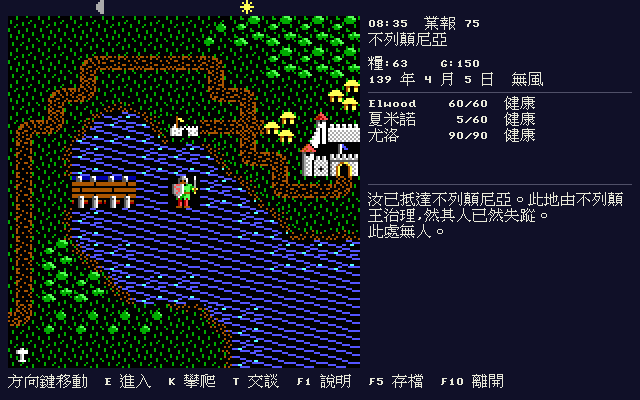
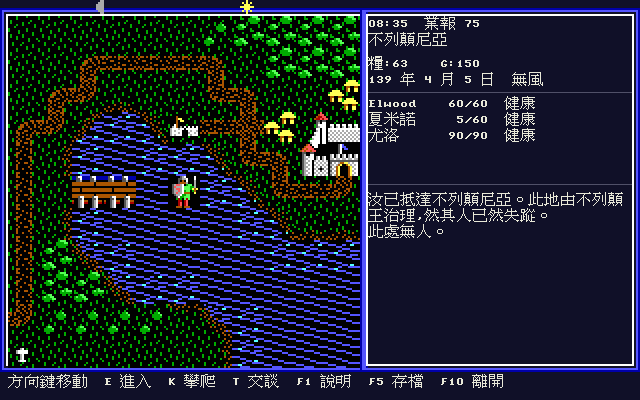
讓現代版面固定顯示古典框線

Changed region(s): [[0.0, 0.0, 1.0, 0.93]]

diff --git a/internal/render/chrome_test.go b/internal/render/chrome_test.go
@@ -5,17 +5,19 @@ import (
 	"testing"
 )
 
-func TestClassicChromeLeavesFooterForHints(t *testing.T) {
-	img := image.NewNRGBA(image.Rect(0, 0, CanvasWidth, CanvasHeight))
-	fill(img, ColorBackground)
+func TestBothUIModesLeaveFooterForHints(t *testing.T) {
+	for _, mode := range []UIMode{UIModern, UIOriginal} {
+		img := image.NewNRGBA(image.Rect(0, 0, CanvasWidth, CanvasHeight))
+		fill(img, ColorBackground)
 
-	s := &Scene{UI: UIOriginal}
-	s.drawClassicChrome(img)
+		s := &Scene{UI: mode}
+		s.drawClassicChrome(img)
 
-	if got := img.At(PanelX, HintY); got != ColorBackground {
-		t.Fatalf("古典框仍畫進命令提示 footer: y=%d, got=%v", HintY, got)
-	}
-	if got := img.At(PanelX, HintY-classicFooterGap-1); got == ColorBackground {
-		t.Fatalf("古典框未在 footer 前收邊: y=%d", HintY-classicFooterGap-1)
+		if got := img.At(PanelX, HintY); got != ColorBackground {
+			t.Errorf("%s 框線仍畫進命令提示 footer: y=%d, got=%v", UIModeNames[mode], HintY, got)
+		}
+		if got := img.At(PanelX, HintY-classicFooterGap-1); got == ColorBackground {
+			t.Errorf("%s 框線未在 footer 前收邊: y=%d", UIModeNames[mode], HintY-classicFooterGap-1)
+		}
 	}
 }

diff --git a/internal/render/sky_test.go b/internal/render/sky_test.go
@@ -69,17 +69,13 @@ func TestBothUIModesKeepTheSunMoonIndicator(t *testing.T) {
 	}
 }
 
-func TestOriginalModeDrawsClassicChrome(t *testing.T) {
-	modern := testScene()
-	modern.UI = UIModern
-	classic := testScene()
-	classic.UI = UIOriginal
-	modernPixel := modern.Render().NRGBAAt(0, 8)
-	classicPixel := classic.Render().NRGBAAt(0, 8)
-	if modernPixel == classicPixel {
-		t.Fatalf("原版框線沒有與現代版分開:兩者 (0,8) 都是 %v", classicPixel)
-	}
-	if classicPixel != u5data.EGAPalette[1] {
-		t.Errorf("原版框線外層是 %v,預期 EGA 深藍=%v", classicPixel, u5data.EGAPalette[1])
+func TestBothUIModesDrawClassicChrome(t *testing.T) {
+	for _, mode := range []UIMode{UIModern, UIOriginal} {
+		s := testScene()
+		s.UI = mode
+		pixel := s.Render().NRGBAAt(0, 8)
+		if pixel != u5data.EGAPalette[1] {
+			t.Errorf("%s 框線外層是 %v,預期 EGA 深藍=%v", UIModeNames[mode], pixel, u5data.EGAPalette[1])
+		}
 	}
 }

diff --git a/internal/render/chrome.go b/internal/render/chrome.go
@@ -13,15 +13,11 @@ const (
 	classicChromeHeight = HintY - classicChromeTop - classicFooterGap
 )
 
-// drawClassicChrome 畫 UIOriginal 的原版藍白框線。
+// drawClassicChrome 畫兩種版面共用的原版藍白框線。
 //
 // 這裡只畫外框，不重排右欄內容：中文狀態與 remake 擴充訊息仍由既有
-// adaptive layout 決定，避免為了像素框線退回原版狹窄的英文欄位。
+// adaptive layout 決定；F2 只切換欄位排版，不切換框線。
 func (s *Scene) drawClassicChrome(dst *image.NRGBA) {
-	if s.UI != UIOriginal {
-		return
-	}
-
 	// MapOriginY=16 正好把頂端 16 px 留給日月帶，框線不會蓋住第一列地形。
 	// 古典框在命令提示前收邊，下面的 footer 留給繁中提示列，避免底框穿過字形。
 	drawClassicFrame(dst, 0, classicChromeTop, PanelX, classicChromeHeight)

diff --git a/internal/render/sky.go b/internal/render/sky.go
@@ -59,7 +59,7 @@ func skyBandSlot(pos int, wrapNegative bool) int {
 }
 
 // drawTimeBand 畫大地圖／場景的日月指示；地牢與戰鬥依原版位置碼不畫。
-// 現代版與 UIOriginal 都保留，差別只在 UIOriginal 另外有藍白框線。
+// 現代版與 UIOriginal 都保留日月圖；兩種版面共用藍白框線。
 func (s *Scene) drawTimeBand(dst *image.NRGBA) {
 	if s.State == nil || s.RuneCharset == nil || !s.State.SceneOrOverworld() {
 		return

diff --git a/README.md b/README.md
@@ -52,9 +52,9 @@
 
 ![古典版 GUI（命令提示 footer 不被框線遮住）](docs/screenshots/26-ui-original.png)
 
-古典版面以原版藍白框線與欄位順序為基礎；按 `F2` 可與現代版面即時切換。
-框線在底部命令提示 footer 前收邊，提示文字保留獨立空間；兩種版面都保留日／月指示，
-以及 remake 擴充的繁中訊息與狀態內容。
+兩種版面都固定保留原版藍白框線與底部命令提示 footer 空間；按 `F2` 只切換右欄排版。
+現代版面仍保留分組留白，原版版面則維持原版欄位順序；兩者都保留日／月指示，以及
+remake 擴充的繁中訊息與狀態內容。
 
 | | |
 |---|---|
@@ -80,8 +80,8 @@
 | **衛兵索取貢金** —— 全遊戲只有十三個攔路衛兵(對話號碼 0xFF),分布在五座城與黑棘的宮殿。付不出來就當場逮捕 | **豎琴後面的密室** —— 在王的城堡二樓坐下彈完十三個音,石牆開了。裡面躺著檀香木盒,真結局的前提 |
 | ![聖壇石室](docs/screenshots/14-shrine-room.png) | ![離開確認框](docs/screenshots/22-quit.png) |
 | **聖壇的石室** —— 四間 11×11 的房間出自 `MISCMAPS.DAT`,踏上正確的位置才讀得到寶典那一頁 | **離開確認框** —— `F10` 才會問這一句,`ESC` 永遠是取消。答 Y 之前先存檔,所以按錯鍵不會丟進度 |
-| ![現代版面](docs/screenshots/25-ui-modern.png) | ![原版版面](docs/screenshots/26-ui-original.png) |
-| **現代版面(預設)** —— 分組留白 + 分隔線,保留日／月圖指示與 remake 擴充訊息 | **原版版面** —— 原版藍白框線 + 欄位組成與順序照原版右欄,底部命令提示不再被框線遮住。`F2` 隨時切換 |
+| ![現代版面（固定古典框線）](docs/screenshots/25-ui-modern.png) | ![原版版面](docs/screenshots/26-ui-original.png) |
+| **現代版面(預設)** —— 藍白框線 + 分組留白 + 分隔線,保留日／月圖指示與 remake 擴充訊息 | **原版版面** —— 藍白框線 + 欄位組成與順序照原版右欄,底部命令提示不被框線遮住。`F2` 只切換排版 |
 | ![主選單](docs/screenshots/24-menu.png) | ![指令說明](docs/screenshots/23-help.png) |
 | **主選單** —— 開機第一個畫面,原版的六個項目。第二項「建立新角色」是吉普賽人的七題八德淘汰賽 | **`F1` 指令說明** —— 原版把 A–Z 二十六個字母全用光了,1988 年靠的是紙本手冊。現在手邊沒那本書,所以「開門是哪個鍵」得在遊戲裡答得出來 |
 
